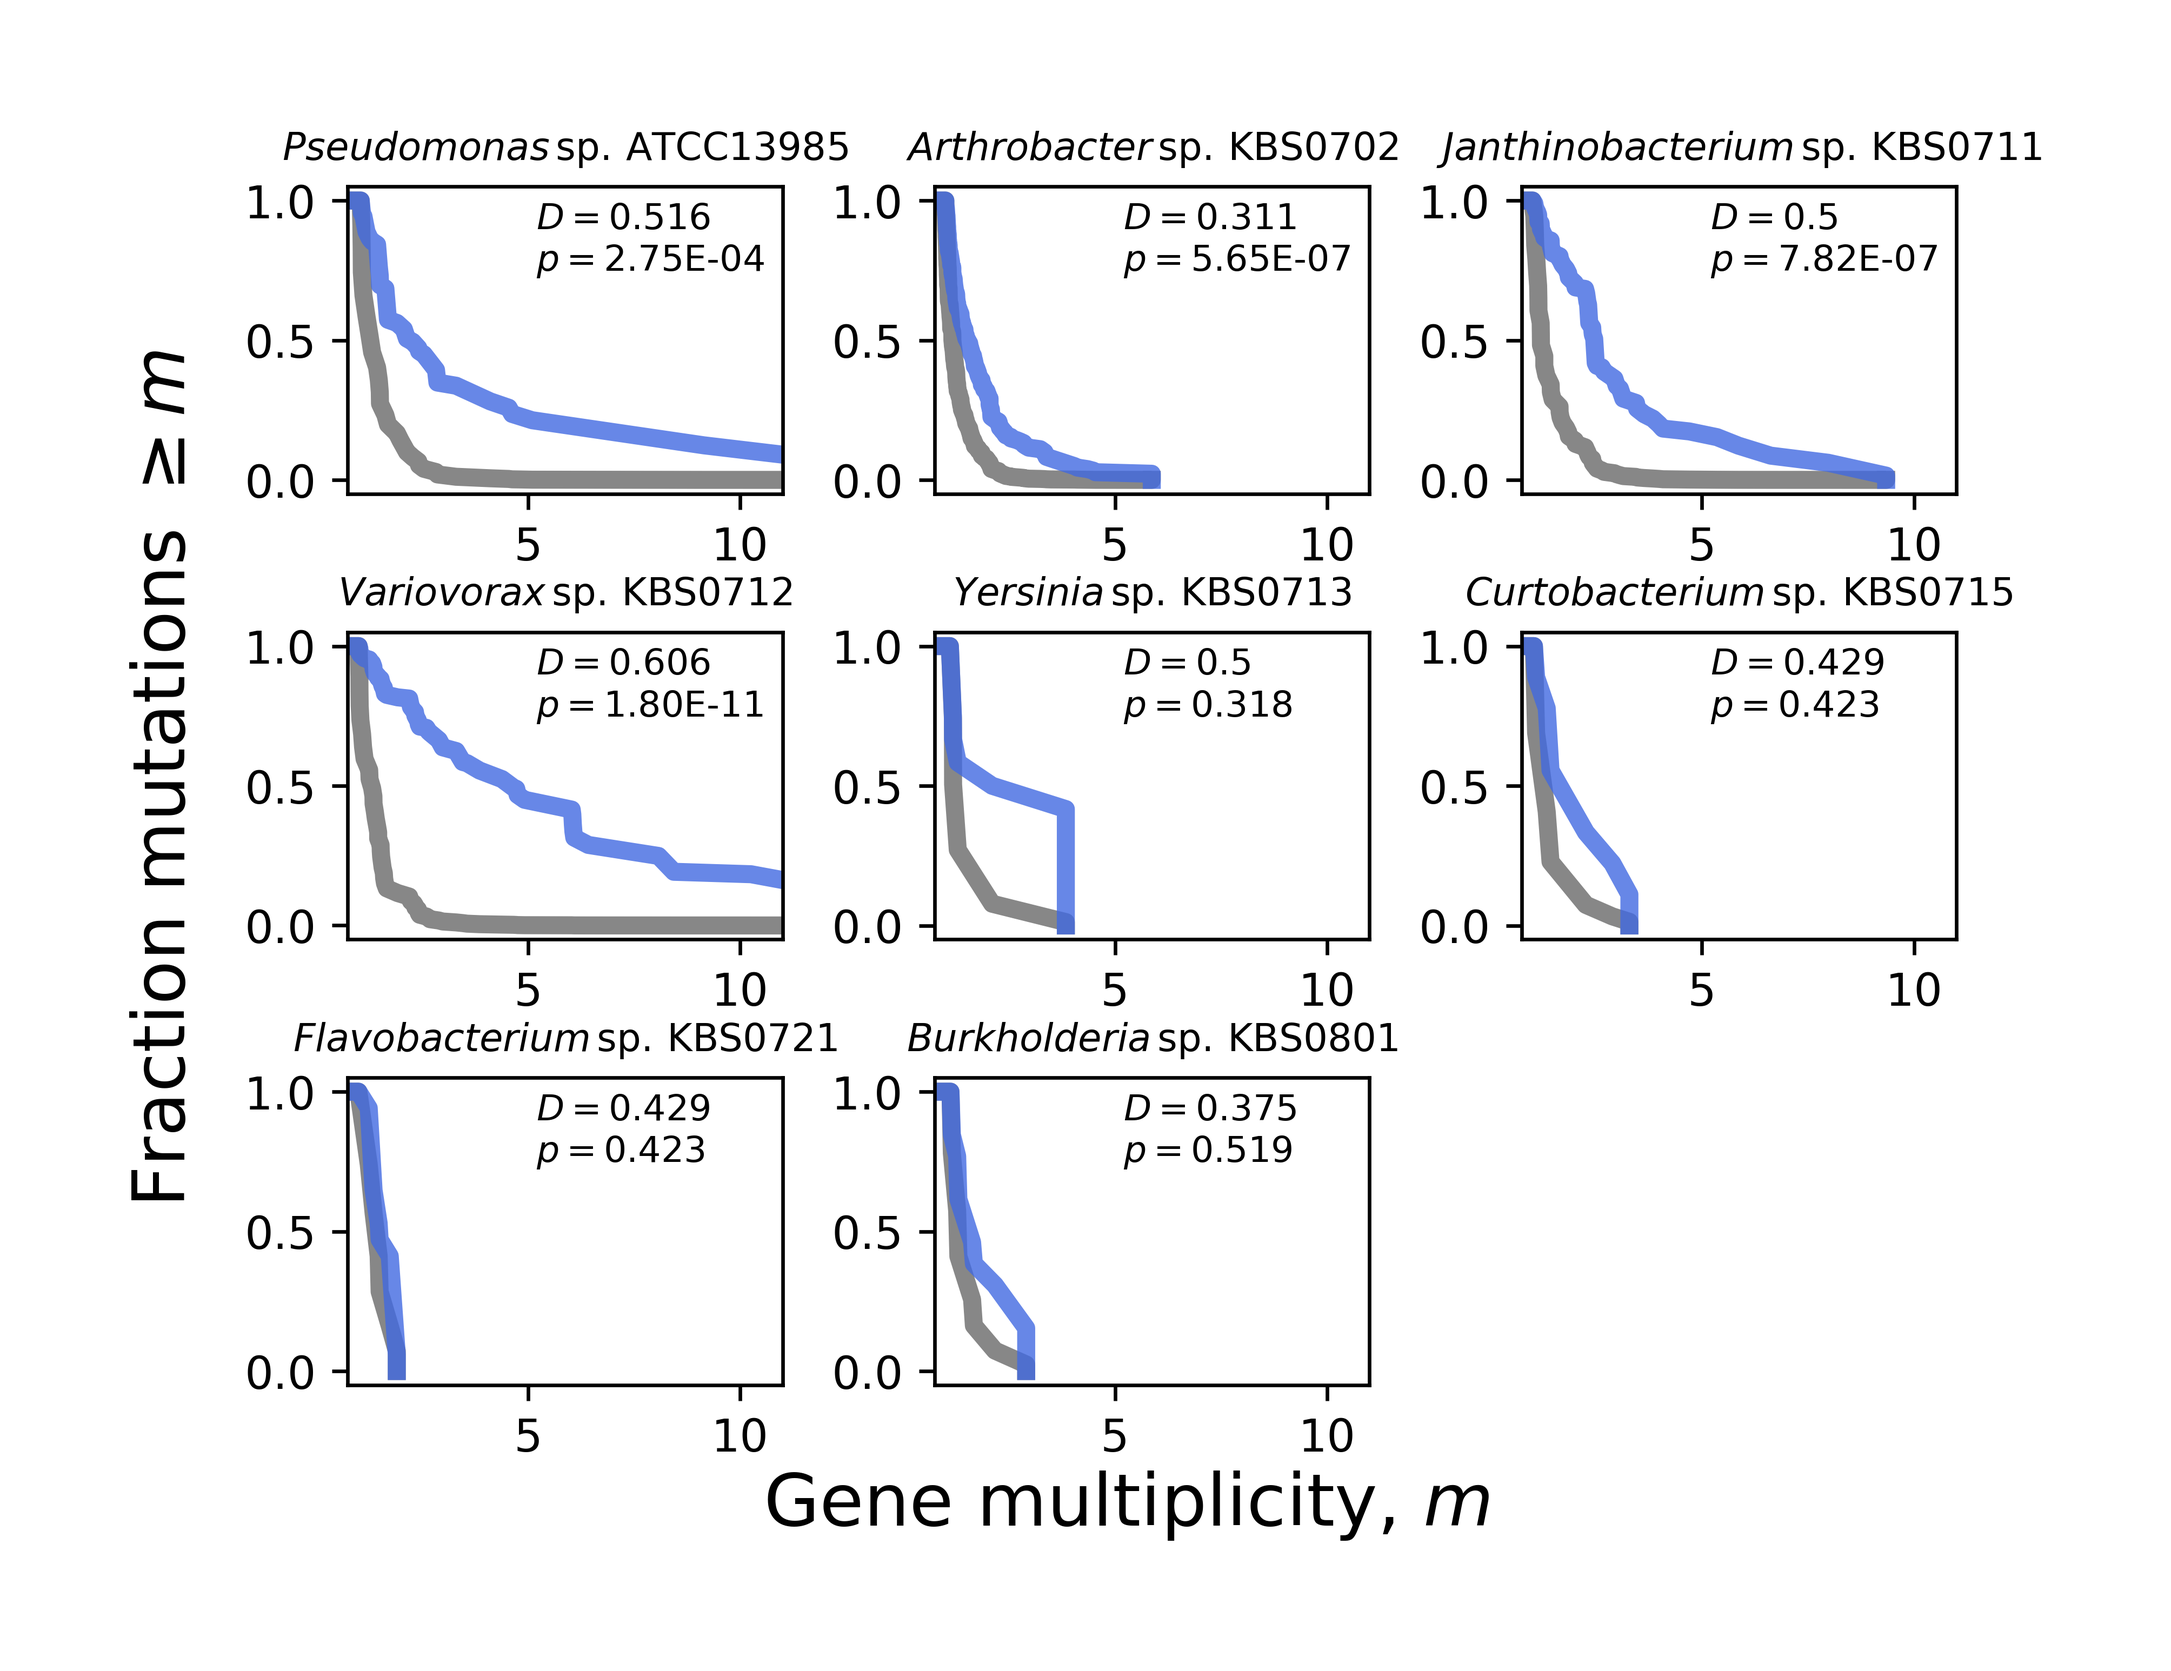
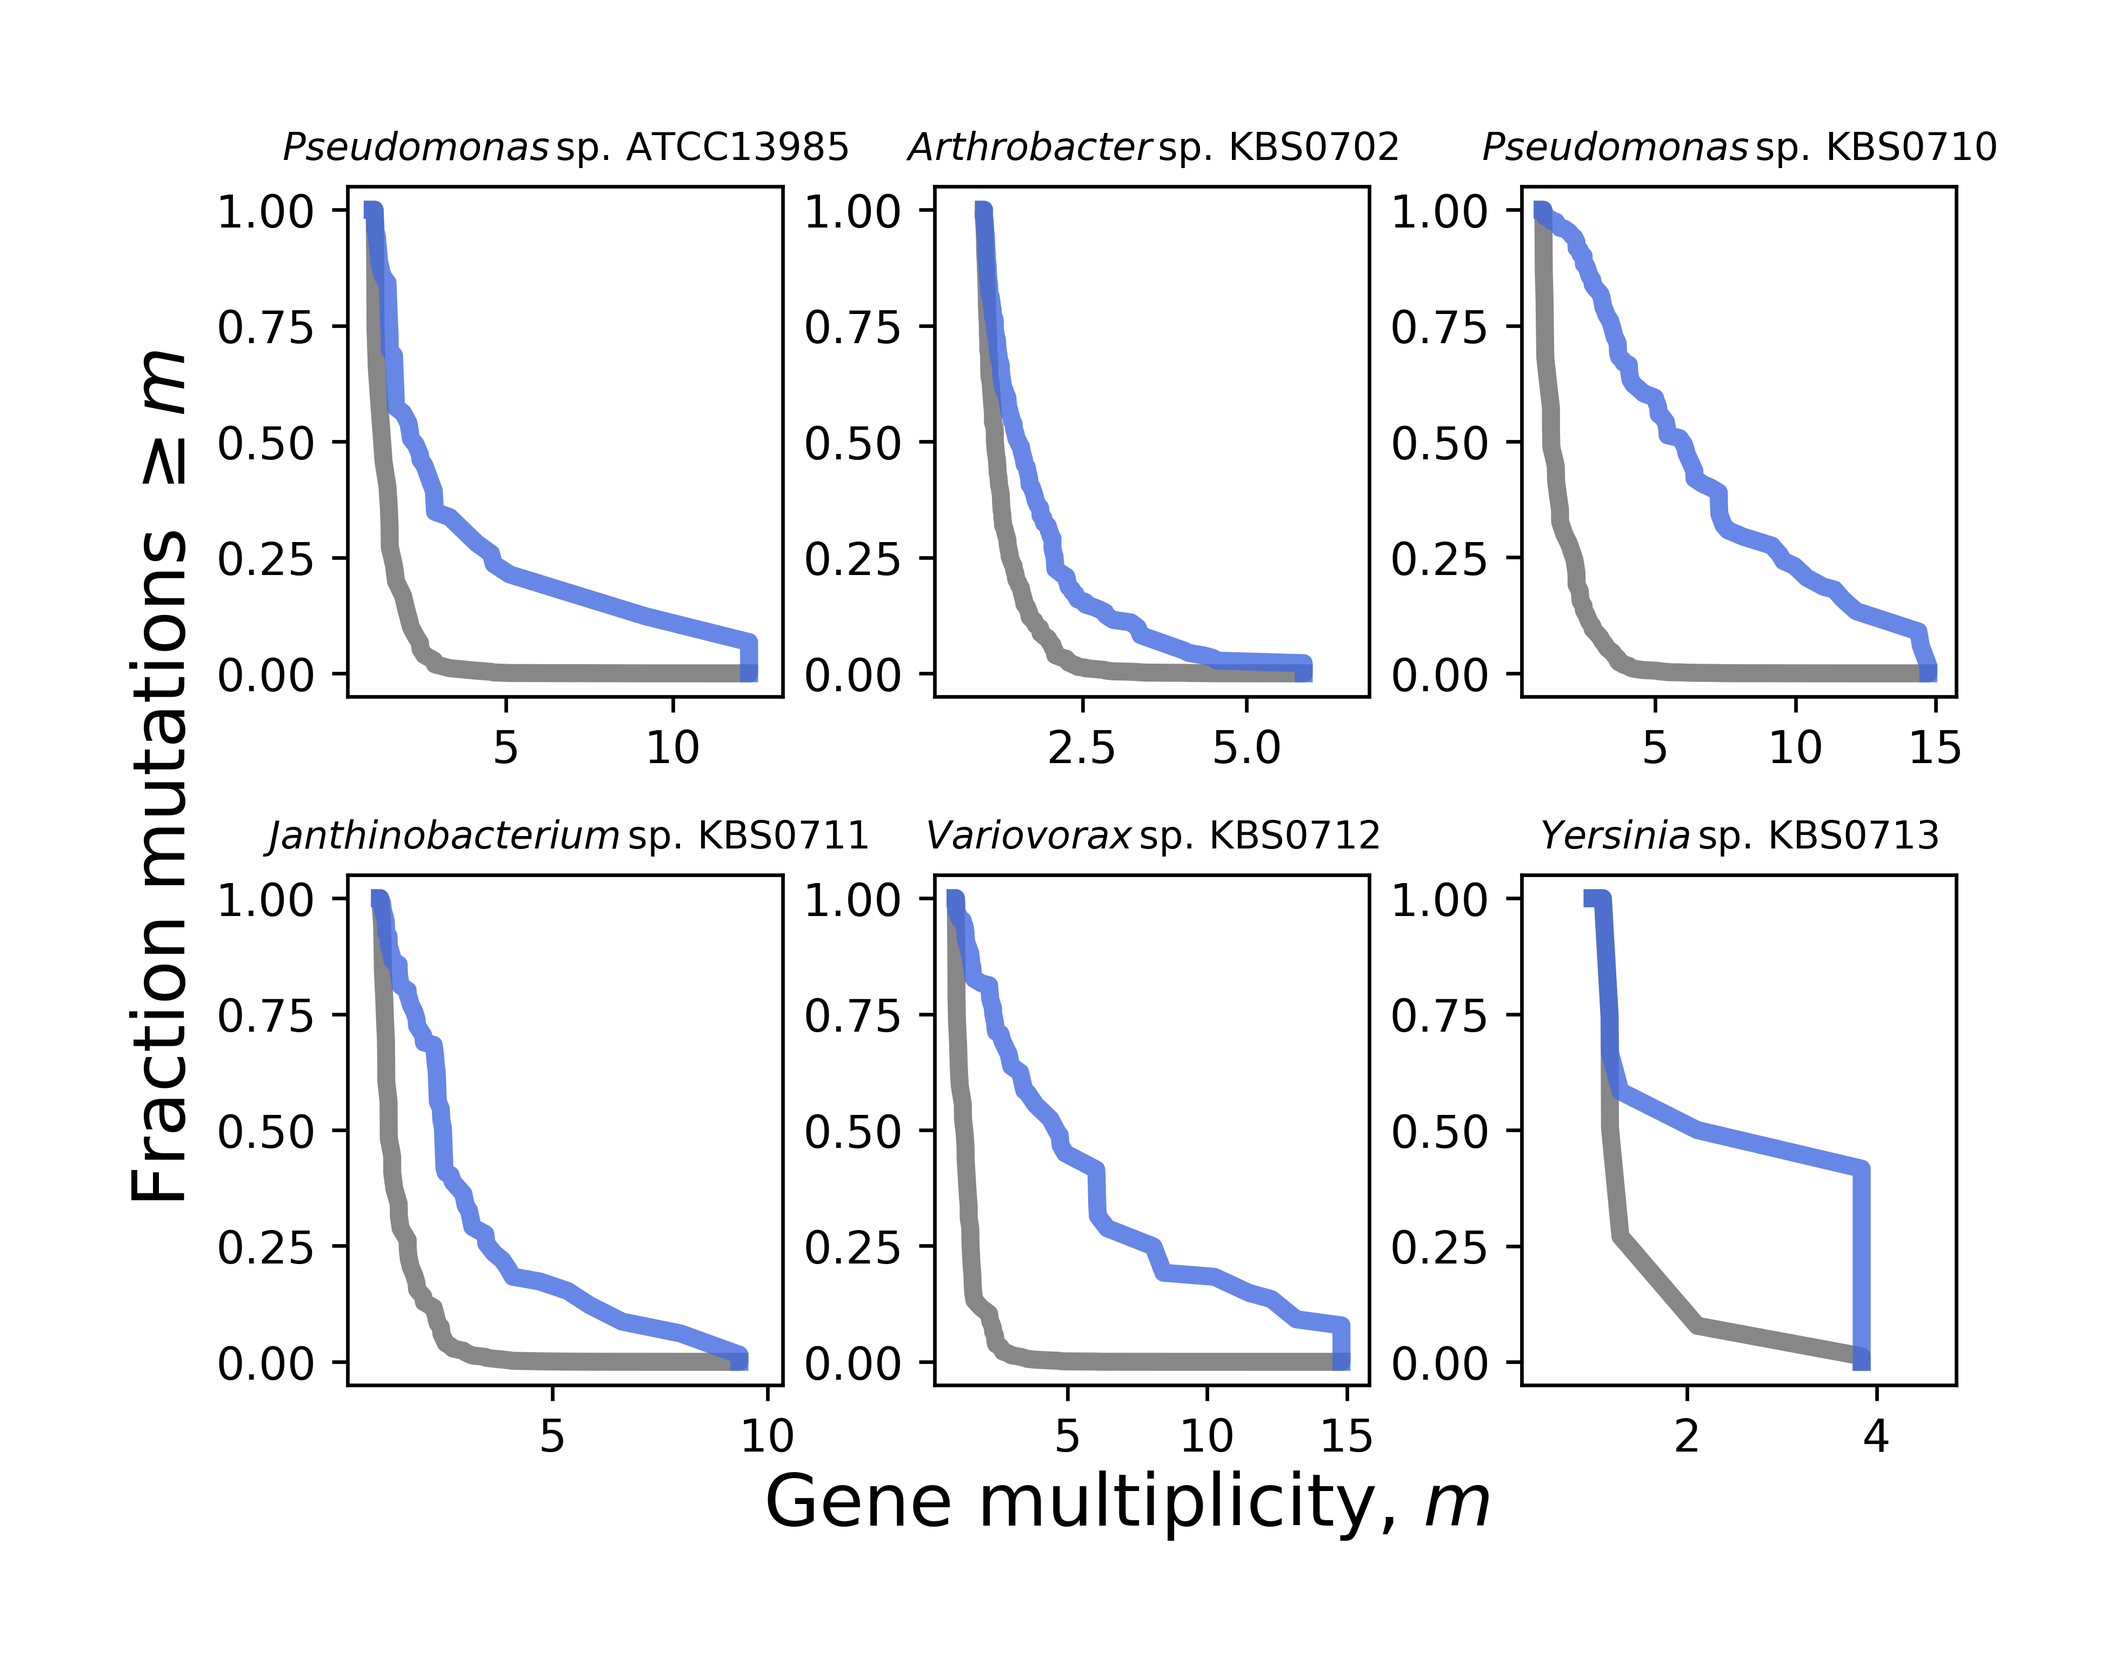
survival multiplicity only for significant lines

diff --git a/Python/make_figs.py b/Python/make_figs.py
@@ -9,11 +9,13 @@ from decimal import Decimal
 
 def plot_multiplicity_survival(taxon = 'KBS0711'):
     # taxa with at least five genes with a multiplicity greater than one
-    taxa_to_plot = ['ATCC13985', 'KBS0702', 'KBS0711', 'KBS0712', 'KBS0713', 'KBS0715', 'KBS0721', 'KBS0801']
-
+    #taxa_to_plot = ['ATCC13985', 'KBS0702', 'KBS0711', 'KBS0712', 'KBS0713', 'KBS0715', 'KBS0721', 'KBS0801']
+    # don't include KBS0707 even though it has a significant G score, sicne there's
+    # only one gene with a multiplicity greater than 1
+    taxa_to_plot = ['ATCC13985', 'KBS0702', 'KBS0710', 'KBS0711', 'KBS0712', 'KBS0713']
 
     fig = plt.figure()
-    fig.subplots_adjust(hspace=0.45, wspace=0.35)
+    fig.subplots_adjust(hspace=0.35, wspace=0.35)
     for i in range(0, len(taxa_to_plot)):
         taxon = taxa_to_plot[i]
         df_path = lt.get_path() + '/data/breseq/mult_survival_curves/' + taxon + '.txt'
@@ -22,18 +24,17 @@ def plot_multiplicity_survival(taxon = 'KBS0711'):
         new_obs_y =[1.0] + df.Obs_fract.tolist() + [ 0.0001]
         new_null_y = [1.0] + df.Null_fract.tolist() + [ 0.0001]
 
-        ax = fig.add_subplot(3, 3, i+1)
+        ax = fig.add_subplot(2, 3, i+1)
         ax.plot(new_x, new_obs_y, '-', c='royalblue', lw=4, alpha = 0.8, zorder=1)
         ax.plot(new_x, new_null_y, '-', c='dimgrey', lw=4, alpha = 0.8, zorder=0)
-        ax.set_xlim([0.75, 11])
+        ax.set_xlim([0.25, max(new_x)+1])
 
-        D, p_value = stats.ks_2samp(df.Null_fract.tolist() , df.Obs_fract.tolist())
-
-        ax.annotate(r'$D= $'+ str(round(D, 3)), (5.2, 0.9), fontsize=8)
-        if np.log10(p_value) < -3:
-            ax.annotate(r'$p= $'+ str('%.2E' % Decimal(p_value)), (5.2, 0.75), fontsize=8)
-        else:
-            ax.annotate(r'$p= $'+ str(round(p_value,3)), (5.2, 0.75), fontsize=8)
+        #D, p_value = stats.ks_2samp(df.Null_fract.tolist() , df.Obs_fract.tolist())
+        #ax.annotate(r'$D= $'+ str(round(D, 3)), (5.2, 0.9), fontsize=8)
+        #if np.log10(p_value) < -3:
+        #    ax.annotate(r'$p= $'+ str('%.2E' % Decimal(p_value)), (5.2, 0.75), fontsize=8)
+        #else:
+        #    ax.annotate(r'$p= $'+ str(round(p_value,3)), (5.2, 0.75), fontsize=8)
 
         if taxon == 'ATCC13985':
             ax.title.set_text(r'$\mathit{Pseudomonas} \, \mathrm{sp.} \, \mathrm{ATCC13985}$')
@@ -51,10 +52,13 @@ def plot_multiplicity_survival(taxon = 'KBS0711'):
             ax.title.set_text(r'$\mathit{Flavobacterium} \, \mathrm{sp.} \, \mathrm{KBS0721}$')
         elif taxon == 'KBS0801':
             ax.title.set_text(r'$\mathit{Burkholderia} \, \mathrm{sp.} \, \mathrm{KBS0801}$')
+        elif taxon == 'KBS0710':
+            ax.title.set_text(r'$\mathit{Pseudomonas} \, \mathrm{sp.} \, \mathrm{KBS0710}$')
         else:
             print("Taxon not recognized")
 
         ax.title.set_fontsize(8.5)
+
     #fig.tight_layout()
 
     fig.text(0.5, 0.02, 'Gene multiplicity, ' + '$m$', ha='center', fontsize=16)

diff --git a/Python/clean_data.py b/Python/clean_data.py
@@ -7,6 +7,7 @@ from collections import Counter
 from Bio import SeqIO
 import _pickle as pickle
 from decimal import Decimal
+import statsmodels.stats.multitest as mt
 
 #np.random.seed(123456789)
 
@@ -486,6 +487,7 @@ def run_parallelism_analysis(nmin = 3, FDR = 0.05):
     total_parallelism_path = lt.get_path() + '/data/breseq/total_parallelism.txt'
     total_parallelism = open(total_parallelism_path,"w")
     total_parallelism.write("\t".join(["Taxon", "G_score", "p_value"]))
+    G_score_list = []
     for taxon in to_keep_taxa:
         print(taxon)
         effective_gene_lengths, Lsyn, Lnon, substitution_specific_synonymous_fraction = calculate_synonymous_nonsynonymous_target_sizes(taxon)
@@ -584,8 +586,7 @@ def run_parallelism_analysis(nmin = 3, FDR = 0.05):
 
         # get likelihood score and null test
         observed_G, pvalue = lt.calculate_total_parallelism(gene_parallelism_statistics)
-        total_parallelism.write("\n")
-        total_parallelism.write("\t".join([taxon, str(observed_G), str(pvalue)]))
+        G_score_list.append((taxon, observed_G, pvalue))
 
         print(observed_G, pvalue)
         if pvalue >= 0.05:
@@ -628,18 +629,22 @@ def run_parallelism_analysis(nmin = 3, FDR = 0.05):
 
         output_mult_gene.close()
 
+
+
+    G_score_list_p_vales = [i[2] for i in G_score_list]
+    reject, pvals_corrected, alphacSidak, alphacBonf = mt.multipletests(G_score_list_p_vales, alpha=0.05, method='fdr_bh')
+    for i in range(len(pvals_corrected)):
+        taxon_i = G_score_list[i][0]
+        G_score_i = G_score_list[i][1]
+        p_value_i = G_score_list[i][2]
+        pvals_corrected_i = pvals_corrected[i]
+
+        total_parallelism.write("\n")
+        total_parallelism.write("\t".join([taxon_i, str(G_score_i), str(p_value_i), str(pvals_corrected_i)]))
+
     total_parallelism.close()
 
     with open(lt.get_path() + '/data/breseq/p_star.txt', 'wb') as file:
         file.write(pickle.dumps(p_star_dict)) # use `pickle.loads` to do the reverse
-
-
-
-
-
-
-
-
-
 
 run_parallelism_analysis()
